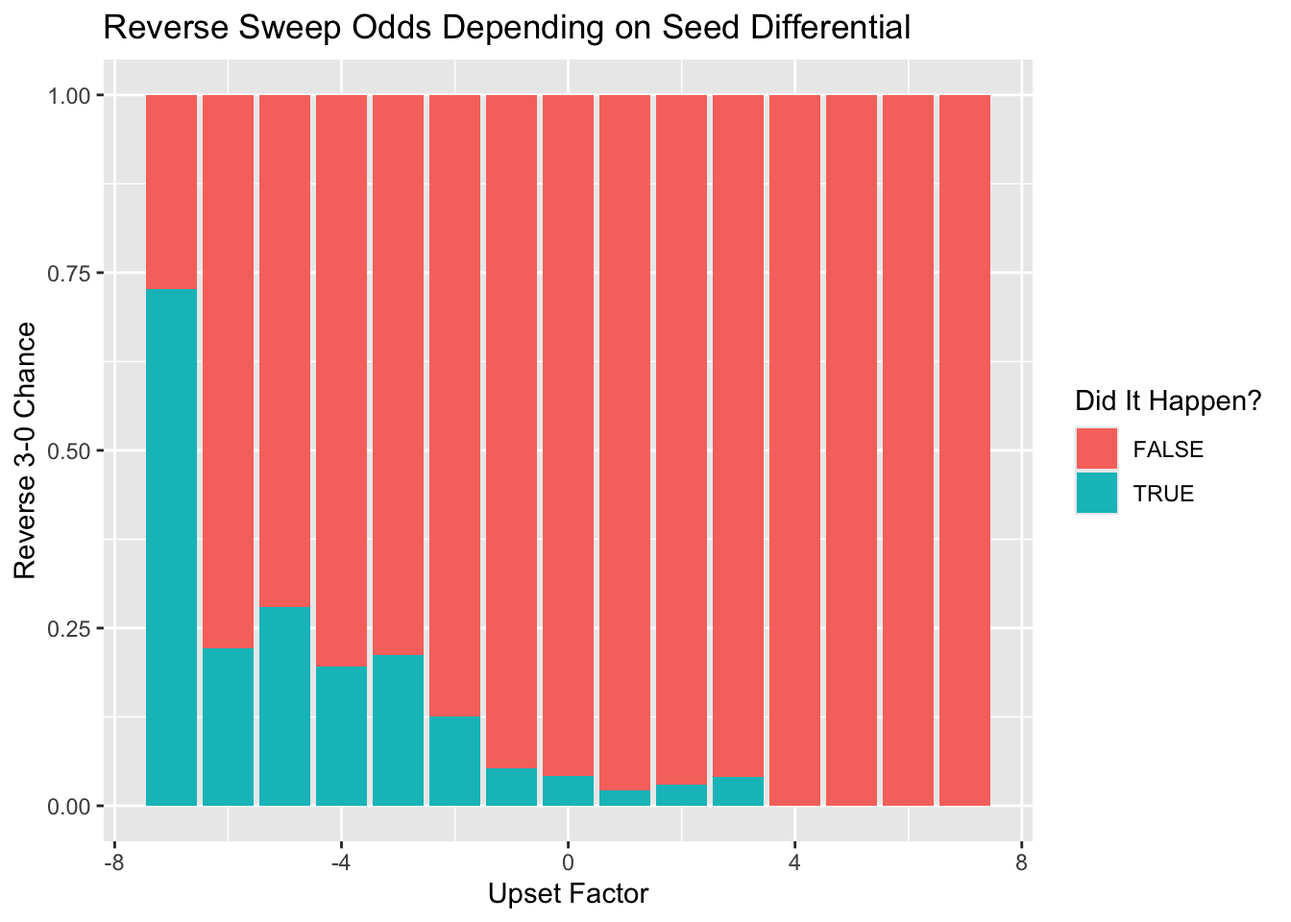
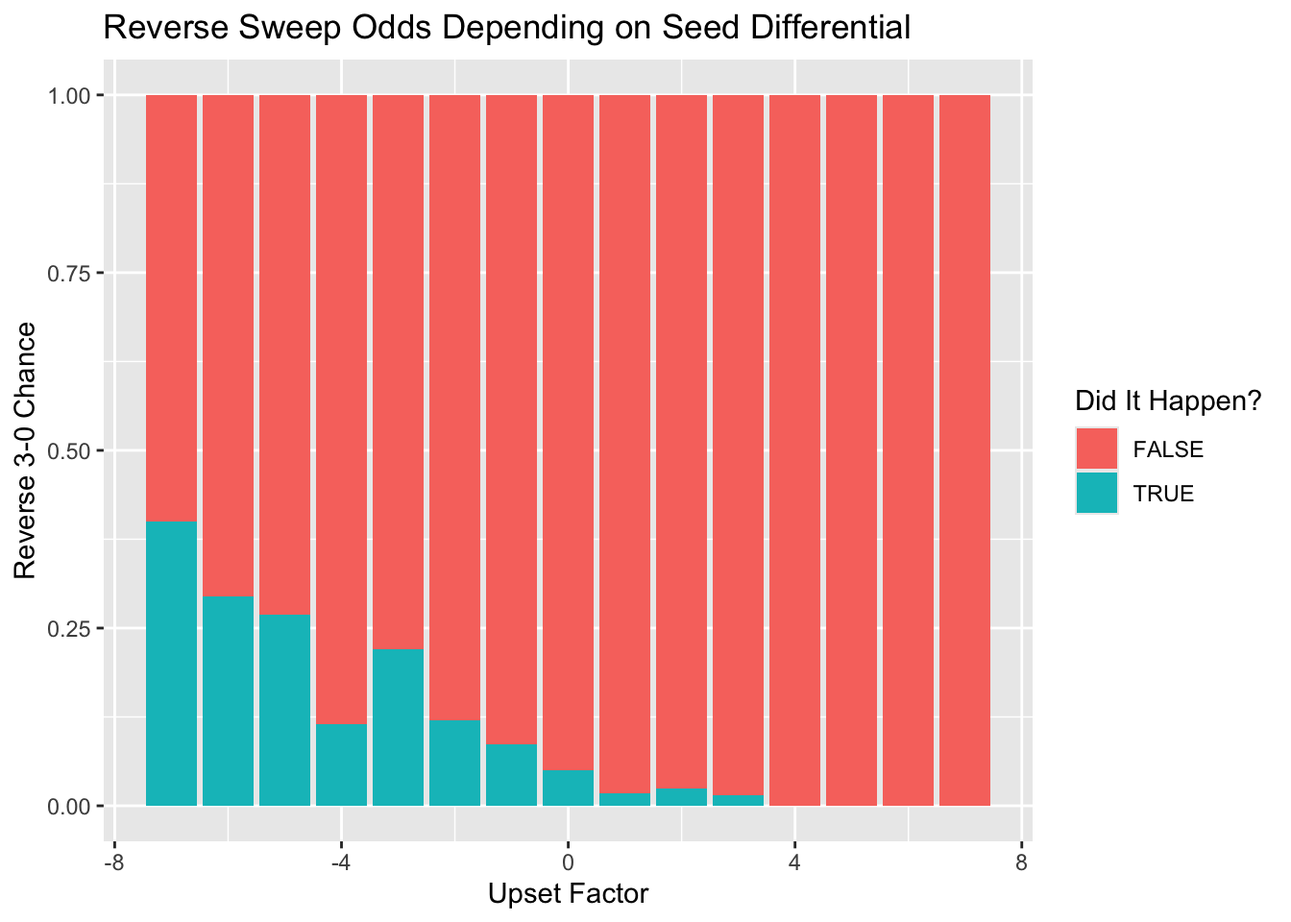
project 6 updates

diff --git a/docs/sql.html b/docs/sql.html
@@ -145,6 +145,10 @@ pre > code.sourceCode > span > a:first-child::before { text-decoration: underlin
  <span class="dropdown-text">Data Viz (National Park Species)</span></a>
   </li>  
         <li>
+    <a class="dropdown-item" href="./dataviz3.html">
+ <span class="dropdown-text">Data Viz (Species Interactive App)</span></a>
+  </li>  
+        <li>
     <a class="dropdown-item" href="./textanalysis.html">
  <span class="dropdown-text">Text Analysis (Palindromes)</span></a>
   </li>  
@@ -162,6 +166,10 @@ pre > code.sourceCode > span > a:first-child::before { text-decoration: underlin
   </li>  
     </ul>
   </li>
+  <li class="nav-item">
+    <a class="nav-link" href="./presentation.html"> 
+<span class="menu-text">Presentation</span></a>
+  </li>  
 </ul>
           </div> <!-- /navcollapse -->
             <div class="quarto-navbar-tools">
@@ -235,7 +243,7 @@ pre > code.sourceCode > span > a:first-child::before { text-decoration: underlin
 <h2 class="anchored" data-anchor-id="introduction">Introduction</h2>
 <p>It’s been observed that judges are less likely to grant lenient sentences or parole when they are hungry. (i.e.&nbsp;before their lunch break) (Danziger et al., 2011). This has become known as the “hungry judge effect”.</p>
 <p>We can use data from the Stanford Open Policing Project (Pierson et al., 2020) to observe the rate at which traffic stops result in citations, and whether there’s a meaningful difference in this rate before and after noon (which, presumably, is roughly when cops would eat lunch and be the hungriest). Washington, Texas, and New Jersey all give data for citations given and time of day.</p>
-<p>I cut off the data according to the normal 9-5 work day. While traffic stops obviously happen outside of those hours, it doesn’t make sense to evaluate the effect of a lunch break on something happening in the middle of the night.</p>
+<p>If we assume that a standard lunch hour is 12-1pm, we can consider the prior hour (11-12) “before lunch” and the next hour (1-2) “after lunch”. While traffic stops obviously happen outside of those hours, it doesn’t make sense to evaluate the effect of a lunch break on something happening in the middle of the night, or even at 9am or 5pm.</p>
 </section>
 <section id="data" class="level2">
 <h2 class="anchored" data-anchor-id="data">Data</h2>
@@ -263,52 +271,57 @@ pre > code.sourceCode > span > a:first-child::before { text-decoration: underlin
 <div class="cell" data-output.var="citations_and_warnings">
 <div class="sourceCode cell-code" id="cb3"><pre class="sourceCode sql code-with-copy"><code class="sourceCode sql"><span id="cb3-1"><a href="#cb3-1" aria-hidden="true" tabindex="-1"></a><span class="kw">SELECT</span> <span class="st">'WA'</span> <span class="kw">AS</span> state,</span>
 <span id="cb3-2"><a href="#cb3-2" aria-hidden="true" tabindex="-1"></a>       <span class="cf">CASE</span></span>
-<span id="cb3-3"><a href="#cb3-3" aria-hidden="true" tabindex="-1"></a>        <span class="cf">WHEN</span> <span class="dt">time</span> <span class="op">&lt;</span> <span class="st">'12:00:00'</span> <span class="cf">THEN</span> <span class="st">'morning'</span></span>
-<span id="cb3-4"><a href="#cb3-4" aria-hidden="true" tabindex="-1"></a>        <span class="cf">ELSE</span> <span class="st">'afternoon'</span></span>
+<span id="cb3-3"><a href="#cb3-3" aria-hidden="true" tabindex="-1"></a>        <span class="cf">WHEN</span> <span class="dt">time</span> <span class="op">&gt;=</span> <span class="st">'11:00:00'</span> <span class="kw">AND</span> <span class="dt">time</span> <span class="op">&lt;=</span> <span class="st">'12:00:00'</span> <span class="cf">THEN</span> <span class="st">'morning'</span></span>
+<span id="cb3-4"><a href="#cb3-4" aria-hidden="true" tabindex="-1"></a>        <span class="cf">WHEN</span> <span class="dt">time</span> <span class="op">&gt;=</span> <span class="st">'13:00:00'</span> <span class="kw">AND</span> <span class="dt">time</span> <span class="op">&lt;=</span> <span class="st">'14:00:00'</span> <span class="cf">THEN</span> <span class="st">'afternoon'</span></span>
 <span id="cb3-5"><a href="#cb3-5" aria-hidden="true" tabindex="-1"></a>       <span class="cf">END</span> <span class="kw">AS</span> day_segment,</span>
 <span id="cb3-6"><a href="#cb3-6" aria-hidden="true" tabindex="-1"></a>       <span class="fu">AVG</span>(citation_issued) <span class="kw">AS</span> citation_rate,</span>
-<span id="cb3-7"><a href="#cb3-7" aria-hidden="true" tabindex="-1"></a>       <span class="fu">AVG</span>(warning_issued) <span class="kw">AS</span> warning_rate</span>
-<span id="cb3-8"><a href="#cb3-8" aria-hidden="true" tabindex="-1"></a><span class="kw">FROM</span> wa_statewide_2020_04_01</span>
-<span id="cb3-9"><a href="#cb3-9" aria-hidden="true" tabindex="-1"></a><span class="kw">WHERE</span> <span class="dt">time</span> <span class="op">&gt;</span> <span class="st">'09:00:00'</span> <span class="kw">AND</span> <span class="dt">time</span> <span class="op">&lt;</span> <span class="st">'17:00:00'</span></span>
-<span id="cb3-10"><a href="#cb3-10" aria-hidden="true" tabindex="-1"></a><span class="kw">GROUP</span> <span class="kw">BY</span> day_segment</span>
-<span id="cb3-11"><a href="#cb3-11" aria-hidden="true" tabindex="-1"></a></span>
-<span id="cb3-12"><a href="#cb3-12" aria-hidden="true" tabindex="-1"></a><span class="kw">UNION</span> <span class="kw">ALL</span></span>
-<span id="cb3-13"><a href="#cb3-13" aria-hidden="true" tabindex="-1"></a></span>
-<span id="cb3-14"><a href="#cb3-14" aria-hidden="true" tabindex="-1"></a><span class="kw">SELECT</span> <span class="st">'TX'</span> <span class="kw">AS</span> state,</span>
-<span id="cb3-15"><a href="#cb3-15" aria-hidden="true" tabindex="-1"></a>       <span class="cf">CASE</span></span>
-<span id="cb3-16"><a href="#cb3-16" aria-hidden="true" tabindex="-1"></a>        <span class="cf">WHEN</span> <span class="dt">time</span> <span class="op">&lt;</span> <span class="st">'12:00:00'</span> <span class="cf">THEN</span> <span class="st">'morning'</span></span>
-<span id="cb3-17"><a href="#cb3-17" aria-hidden="true" tabindex="-1"></a>        <span class="cf">ELSE</span> <span class="st">'afternoon'</span></span>
-<span id="cb3-18"><a href="#cb3-18" aria-hidden="true" tabindex="-1"></a>       <span class="cf">END</span> <span class="kw">AS</span> day_segment,</span>
-<span id="cb3-19"><a href="#cb3-19" aria-hidden="true" tabindex="-1"></a>       <span class="fu">AVG</span>(citation_issued) <span class="kw">AS</span> citation_rate,</span>
-<span id="cb3-20"><a href="#cb3-20" aria-hidden="true" tabindex="-1"></a>       <span class="fu">AVG</span>(warning_issued) <span class="kw">AS</span> warning_rate</span>
-<span id="cb3-21"><a href="#cb3-21" aria-hidden="true" tabindex="-1"></a><span class="kw">FROM</span> tx_statewide_2020_04_01</span>
-<span id="cb3-22"><a href="#cb3-22" aria-hidden="true" tabindex="-1"></a><span class="kw">WHERE</span> <span class="dt">time</span> <span class="op">&gt;</span> <span class="st">'09:00:00'</span> <span class="kw">AND</span> <span class="dt">time</span> <span class="op">&lt;</span> <span class="st">'17:00:00'</span></span>
-<span id="cb3-23"><a href="#cb3-23" aria-hidden="true" tabindex="-1"></a><span class="kw">GROUP</span> <span class="kw">BY</span> day_segment</span>
-<span id="cb3-24"><a href="#cb3-24" aria-hidden="true" tabindex="-1"></a></span>
-<span id="cb3-25"><a href="#cb3-25" aria-hidden="true" tabindex="-1"></a><span class="kw">UNION</span> <span class="kw">ALL</span></span>
+<span id="cb3-7"><a href="#cb3-7" aria-hidden="true" tabindex="-1"></a>       <span class="fu">AVG</span>(warning_issued) <span class="kw">AS</span> warning_rate,</span>
+<span id="cb3-8"><a href="#cb3-8" aria-hidden="true" tabindex="-1"></a>       <span class="fu">COUNT</span>(<span class="op">*</span>) <span class="kw">AS</span> total_stops</span>
+<span id="cb3-9"><a href="#cb3-9" aria-hidden="true" tabindex="-1"></a><span class="kw">FROM</span> wa_statewide_2020_04_01</span>
+<span id="cb3-10"><a href="#cb3-10" aria-hidden="true" tabindex="-1"></a><span class="kw">WHERE</span> <span class="dt">time</span> <span class="op">&gt;=</span> <span class="st">'11:00:00'</span> <span class="kw">AND</span> <span class="dt">time</span> <span class="op">&lt;=</span> <span class="st">'12:00:00'</span> <span class="kw">OR</span> <span class="dt">time</span> <span class="op">&gt;=</span> <span class="st">'13:00:00'</span> <span class="kw">AND</span> <span class="dt">time</span> <span class="op">&lt;=</span> <span class="st">'14:00:00'</span></span>
+<span id="cb3-11"><a href="#cb3-11" aria-hidden="true" tabindex="-1"></a><span class="kw">GROUP</span> <span class="kw">BY</span> day_segment</span>
+<span id="cb3-12"><a href="#cb3-12" aria-hidden="true" tabindex="-1"></a></span>
+<span id="cb3-13"><a href="#cb3-13" aria-hidden="true" tabindex="-1"></a><span class="kw">UNION</span> <span class="kw">ALL</span></span>
+<span id="cb3-14"><a href="#cb3-14" aria-hidden="true" tabindex="-1"></a></span>
+<span id="cb3-15"><a href="#cb3-15" aria-hidden="true" tabindex="-1"></a><span class="kw">SELECT</span> <span class="st">'TX'</span> <span class="kw">AS</span> state,</span>
+<span id="cb3-16"><a href="#cb3-16" aria-hidden="true" tabindex="-1"></a>       <span class="cf">CASE</span></span>
+<span id="cb3-17"><a href="#cb3-17" aria-hidden="true" tabindex="-1"></a>        <span class="cf">WHEN</span> <span class="dt">time</span> <span class="op">&gt;=</span> <span class="st">'11:00:00'</span> <span class="kw">AND</span> <span class="dt">time</span> <span class="op">&lt;=</span> <span class="st">'12:00:00'</span> <span class="cf">THEN</span> <span class="st">'morning'</span></span>
+<span id="cb3-18"><a href="#cb3-18" aria-hidden="true" tabindex="-1"></a>        <span class="cf">WHEN</span> <span class="dt">time</span> <span class="op">&gt;=</span> <span class="st">'13:00:00'</span> <span class="kw">AND</span> <span class="dt">time</span> <span class="op">&lt;=</span> <span class="st">'14:00:00'</span> <span class="cf">THEN</span> <span class="st">'afternoon'</span></span>
+<span id="cb3-19"><a href="#cb3-19" aria-hidden="true" tabindex="-1"></a>       <span class="cf">END</span> <span class="kw">AS</span> day_segment,</span>
+<span id="cb3-20"><a href="#cb3-20" aria-hidden="true" tabindex="-1"></a>       <span class="fu">AVG</span>(citation_issued) <span class="kw">AS</span> citation_rate,</span>
+<span id="cb3-21"><a href="#cb3-21" aria-hidden="true" tabindex="-1"></a>       <span class="fu">AVG</span>(warning_issued) <span class="kw">AS</span> warning_rate,</span>
+<span id="cb3-22"><a href="#cb3-22" aria-hidden="true" tabindex="-1"></a>       <span class="fu">COUNT</span>(<span class="op">*</span>) <span class="kw">AS</span> total_stops</span>
+<span id="cb3-23"><a href="#cb3-23" aria-hidden="true" tabindex="-1"></a><span class="kw">FROM</span> tx_statewide_2020_04_01</span>
+<span id="cb3-24"><a href="#cb3-24" aria-hidden="true" tabindex="-1"></a><span class="kw">WHERE</span> <span class="dt">time</span> <span class="op">&gt;=</span> <span class="st">'11:00:00'</span> <span class="kw">AND</span> <span class="dt">time</span> <span class="op">&lt;=</span> <span class="st">'12:00:00'</span> <span class="kw">OR</span> <span class="dt">time</span> <span class="op">&gt;=</span> <span class="st">'13:00:00'</span> <span class="kw">AND</span> <span class="dt">time</span> <span class="op">&lt;=</span> <span class="st">'14:00:00'</span></span>
+<span id="cb3-25"><a href="#cb3-25" aria-hidden="true" tabindex="-1"></a><span class="kw">GROUP</span> <span class="kw">BY</span> day_segment</span>
 <span id="cb3-26"><a href="#cb3-26" aria-hidden="true" tabindex="-1"></a></span>
-<span id="cb3-27"><a href="#cb3-27" aria-hidden="true" tabindex="-1"></a><span class="kw">SELECT</span> <span class="st">'NJ'</span> <span class="kw">AS</span> state,</span>
-<span id="cb3-28"><a href="#cb3-28" aria-hidden="true" tabindex="-1"></a>       <span class="cf">CASE</span></span>
-<span id="cb3-29"><a href="#cb3-29" aria-hidden="true" tabindex="-1"></a>        <span class="cf">WHEN</span> <span class="dt">time</span> <span class="op">&lt;</span> <span class="st">'12:00:00'</span> <span class="cf">THEN</span> <span class="st">'morning'</span></span>
-<span id="cb3-30"><a href="#cb3-30" aria-hidden="true" tabindex="-1"></a>        <span class="cf">ELSE</span> <span class="st">'afternoon'</span></span>
-<span id="cb3-31"><a href="#cb3-31" aria-hidden="true" tabindex="-1"></a>       <span class="cf">END</span> <span class="kw">AS</span> day_segment,</span>
-<span id="cb3-32"><a href="#cb3-32" aria-hidden="true" tabindex="-1"></a>       <span class="fu">AVG</span>(citation_issued) <span class="kw">AS</span> citation_rate,</span>
-<span id="cb3-33"><a href="#cb3-33" aria-hidden="true" tabindex="-1"></a>       <span class="fu">AVG</span>(warning_issued) <span class="kw">AS</span> warning_rate</span>
-<span id="cb3-34"><a href="#cb3-34" aria-hidden="true" tabindex="-1"></a><span class="kw">FROM</span> nj_statewide_2020_04_01</span>
-<span id="cb3-35"><a href="#cb3-35" aria-hidden="true" tabindex="-1"></a><span class="kw">WHERE</span> <span class="dt">time</span> <span class="op">&gt;</span> <span class="st">'09:00:00'</span> <span class="kw">AND</span> <span class="dt">time</span> <span class="op">&lt;</span> <span class="st">'17:00:00'</span></span>
-<span id="cb3-36"><a href="#cb3-36" aria-hidden="true" tabindex="-1"></a><span class="kw">GROUP</span> <span class="kw">BY</span> day_segment;</span></code><button title="Copy to Clipboard" class="code-copy-button"><i class="bi"></i></button></pre></div>
+<span id="cb3-27"><a href="#cb3-27" aria-hidden="true" tabindex="-1"></a><span class="kw">UNION</span> <span class="kw">ALL</span></span>
+<span id="cb3-28"><a href="#cb3-28" aria-hidden="true" tabindex="-1"></a></span>
+<span id="cb3-29"><a href="#cb3-29" aria-hidden="true" tabindex="-1"></a><span class="kw">SELECT</span> <span class="st">'NJ'</span> <span class="kw">AS</span> state,</span>
+<span id="cb3-30"><a href="#cb3-30" aria-hidden="true" tabindex="-1"></a>       <span class="cf">CASE</span></span>
+<span id="cb3-31"><a href="#cb3-31" aria-hidden="true" tabindex="-1"></a>        <span class="cf">WHEN</span> <span class="dt">time</span> <span class="op">&gt;=</span> <span class="st">'11:00:00'</span> <span class="kw">AND</span> <span class="dt">time</span> <span class="op">&lt;=</span> <span class="st">'12:00:00'</span> <span class="cf">THEN</span> <span class="st">'morning'</span></span>
+<span id="cb3-32"><a href="#cb3-32" aria-hidden="true" tabindex="-1"></a>        <span class="cf">WHEN</span> <span class="dt">time</span> <span class="op">&gt;=</span> <span class="st">'13:00:00'</span> <span class="kw">AND</span> <span class="dt">time</span> <span class="op">&lt;=</span> <span class="st">'14:00:00'</span> <span class="cf">THEN</span> <span class="st">'afternoon'</span></span>
+<span id="cb3-33"><a href="#cb3-33" aria-hidden="true" tabindex="-1"></a>       <span class="cf">END</span> <span class="kw">AS</span> day_segment,</span>
+<span id="cb3-34"><a href="#cb3-34" aria-hidden="true" tabindex="-1"></a>       <span class="fu">AVG</span>(citation_issued) <span class="kw">AS</span> citation_rate,</span>
+<span id="cb3-35"><a href="#cb3-35" aria-hidden="true" tabindex="-1"></a>       <span class="fu">AVG</span>(warning_issued) <span class="kw">AS</span> warning_rate,</span>
+<span id="cb3-36"><a href="#cb3-36" aria-hidden="true" tabindex="-1"></a>       <span class="fu">COUNT</span>(<span class="op">*</span>) <span class="kw">AS</span> total_stops</span>
+<span id="cb3-37"><a href="#cb3-37" aria-hidden="true" tabindex="-1"></a><span class="kw">FROM</span> nj_statewide_2020_04_01</span>
+<span id="cb3-38"><a href="#cb3-38" aria-hidden="true" tabindex="-1"></a><span class="kw">WHERE</span> <span class="dt">time</span> <span class="op">&gt;=</span> <span class="st">'11:00:00'</span> <span class="kw">AND</span> <span class="dt">time</span> <span class="op">&lt;=</span> <span class="st">'12:00:00'</span> <span class="kw">OR</span> <span class="dt">time</span> <span class="op">&gt;=</span> <span class="st">'13:00:00'</span> <span class="kw">AND</span> <span class="dt">time</span> <span class="op">&lt;=</span> <span class="st">'14:00:00'</span></span>
+<span id="cb3-39"><a href="#cb3-39" aria-hidden="true" tabindex="-1"></a><span class="kw">GROUP</span> <span class="kw">BY</span> day_segment;</span></code><button title="Copy to Clipboard" class="code-copy-button"><i class="bi"></i></button></pre></div>
 </div>
 <p>This takes the overall data for a state, filters out times outside of the normal workday, adds a column that specifies what part of the day a stop occurred at based on the time, and splits the table into two parts for each part of the day. It averages the column “citation_issued”, which is 1s for yes and 0s for no, to get the rate at which citations were issued at each part of the day. It combines this output for three different states into one table.</p>
 <div class="cell">
-<div class="sourceCode cell-code" id="cb4"><pre class="sourceCode r code-with-copy"><code class="sourceCode r"><span id="cb4-1"><a href="#cb4-1" aria-hidden="true" tabindex="-1"></a>citations_and_warnings</span></code><button title="Copy to Clipboard" class="code-copy-button"><i class="bi"></i></button></pre></div>
+<div class="sourceCode cell-code" id="cb4"><pre class="sourceCode r code-with-copy"><code class="sourceCode r"><span id="cb4-1"><a href="#cb4-1" aria-hidden="true" tabindex="-1"></a><span class="fu">dbDisconnect</span>(con_traffic)</span>
+<span id="cb4-2"><a href="#cb4-2" aria-hidden="true" tabindex="-1"></a></span>
+<span id="cb4-3"><a href="#cb4-3" aria-hidden="true" tabindex="-1"></a>citations_and_warnings</span></code><button title="Copy to Clipboard" class="code-copy-button"><i class="bi"></i></button></pre></div>
 <div class="cell-output cell-output-stdout">
-<pre><code>  state day_segment citation_rate warning_rate
-1    WA   afternoon     0.3797482    0.4209331
-2    WA     morning     0.4442537    0.4271534
-3    TX   afternoon     0.3883023    0.7490462
-4    TX     morning     0.3767222    0.7539040
-5    NJ   afternoon     0.6136698    0.4608858
-6    NJ     morning     0.6276607    0.4499691</code></pre>
+<pre><code>  state day_segment citation_rate warning_rate total_stops
+1    WA   afternoon     0.3985667    0.4264634     1314603
+2    WA     morning     0.4216448    0.4285162     1236714
+3    TX   afternoon     0.3789574    0.7554030     1643900
+4    TX     morning     0.3843643    0.7475949     1210867
+5    NJ   afternoon     0.6209951    0.4527666      185520
+6    NJ     morning     0.6256819    0.4511785      216405</code></pre>
 </div>
 </div>
 <p>The final data from the SQL query shows one row for each pairing of state and part of the day, and the proportion of traffic stops resulting in a citation or a warning in each.</p>
@@ -358,9 +371,9 @@ pre > code.sourceCode > span > a:first-child::before { text-decoration: underlin
 </section>
 <section id="interpretation" class="level2">
 <h2 class="anchored" data-anchor-id="interpretation">Interpretation</h2>
-<p>The answer seems to be a solid no. While 44% of morning traffic stops in Washington state result in citations, compared to 38% of afternoon ones, this pattern doesn’t exist in the other two states. The rate at which warnings are given is identical.</p>
-<p>Notably, without the time constraint, the morning citation rates are considerably higher than the afternoon ones for all three states. I assume this is because “morning” encompasses late-night traffic stops, which evidently result in much more citations. This proves that removing those parts of the data makes sense, because, as stated earlier, a DUI citation at 3 am probably doesn’t have any degree of dependence on whether the officer has had lunch yet.</p>
-<p>Overall, the null hypothesis seems to be supported in this case. Big states like California and New Jersey do not supply time of citation information, so it may be helpful to collect more data to confirm these findings.</p>
+<p>The answer seems to be “maybe”. While 42% of morning traffic stops in Washington state result in citations, compared to 40% of afternoon ones, this pattern is much weaker in the other two states, with a difference of about half a percentage point in each. The rate at which warnings are given is essentially identical. With a sample size of over a million for Washington and Texas, it is possible that such a small difference is still statistically significant.</p>
+<p>Notably, without the time constraint (just observing differences between before and after 12pm), the morning citation rates are considerably higher than the afternoon ones for all three states. I assume this is because “morning” encompasses late-night traffic stops, which evidently result in much more citations.</p>
+<p>Overall, I don’t think these findings are conclusive. Big states like California and New Jersey do not supply time of citation information, so it may be helpful to collect more data to confirm these findings. I don’t want to rule out the possibility that such an effect exists but if it is it’s much less blatant than it is when observed in judges.</p>
 </section>
 <section id="references" class="level2">
 <h2 class="anchored" data-anchor-id="references">References</h2>

diff --git a/docs/simulation.html b/docs/simulation.html
@@ -8,9 +8,9 @@
 
 <meta name="author" content="Nikhil Shah">
 <meta name="dcterms.date" content="2025-04-02">
-<meta name="description" content="Simulating best-of-5 tournament matches to estimate the odds of a reverse 3-0">
+<meta name="description" content="Simulating best-of-5 tournament matches to estimate the chances of a reverse 3-0">
 
-<title>Reverse 3-0 Odds – Nikhil Shah</title>
+<title>Reverse 3-0s – Nikhil Shah</title>
 <style>
 code{white-space: pre-wrap;}
 span.smallcaps{font-variant: small-caps;}
@@ -154,7 +154,7 @@ pre > code.sourceCode > span > a:first-child::before { text-decoration: underlin
   </li>  
         <li>
     <a class="dropdown-item" href="./simulation.html">
- <span class="dropdown-text">Simulation (Reverse 3-0 Odds)</span></a>
+ <span class="dropdown-text">Simulation (Reverse 3-0s)</span></a>
   </li>  
         <li>
     <a class="dropdown-item" href="./ethics.html">
@@ -190,12 +190,12 @@ pre > code.sourceCode > span > a:first-child::before { text-decoration: underlin
 
 <header id="title-block-header" class="quarto-title-block default">
 <div class="quarto-title">
-<h1 class="title">Reverse 3-0 Odds</h1>
+<h1 class="title">Reverse 3-0s</h1>
 </div>
 
 <div>
   <div class="description">
-    <p>Simulating best-of-5 tournament matches to estimate the odds of a reverse 3-0</p>
+    <p>Simulating best-of-5 tournament matches to estimate the chances of a reverse 3-0</p>
   </div>
 </div>
 
@@ -224,12 +224,12 @@ pre > code.sourceCode > span > a:first-child::before { text-decoration: underlin
 </header>
 
 
-<p>In a best-of-5 set, a reverse 3-0 occurs when one side loses the first two games, and then wins the next three to win a set. It’s an uncommon and extremely exciting (or heartbreaking) phenomenon, and it can seem to often much more likely or much less often than you would expect. I want to estimate how frequently this happens when a set starts 2-0, depending on the relative strength of both sides.</p>
-<p>This needs some assumptions. Firstly, the odds of one player or team to win a game heavily depends on relative skill, the volatility of the game, and maybe luck. Without looking at data from a specific game, we can create odds that seem to make sense.</p>
+<p>In a best-of-5 set, a reverse 3-0 occurs when one side loses the first two games, and then wins the next three to win a set. It’s an uncommon and extremely exciting (or heartbreaking) phenomenon, and it can be pretty difficult to predict when it might occur. I want to estimate how frequently this happens when a set starts 2-0, depending on the relative strength of both sides.</p>
+<p>This needs some assumptions. Firstly, the chance of one player or team to win a game heavily depends on relative skill, the volatility of the game, and maybe luck. Without looking at data from a specific game, we can create chances that seem to make sense.</p>
 <p>We also have to look at players/teams of a somewhat comparable skill. If you were watching a best-of-5 tournament match, and you saw one side go down 0-2, you would only wonder if they could win the match if they were capable of making it competitive. In a 1024-entrant bracket, odds are, the 1st seed will beat the 1024th seed, and the 512th seed, and the 256th seed handily in a 3-0. While those could technically be a reverse 3-0 after the first two games, it’s very unlikely and nobody would expect it to happen. We want to look at matches where some competitiveness is expected.</p>
 <p>We can use a 16-player tournament, and assume that, in a vacuum, the odds of one side winning a game are the the ratio of the two teams’ seeds. For instance, seed 1 has a 1:2 chance of beating seed 2 (67%), seed 16 has a 16:1 chance of beating seed 1 (6%), and seed 15 has 15:16 odds of beating seed 16 (48%). Each of these matches would be competitive, with a significant degree of variability, which makes it interesting.</p>
 <p>Let’s create a hypothetical match between a random pairing of two seeds from 1-16. We can take one side’s odds of winning a game to the power of three and determine the chance of them winning three games in a row. However, since we want to know the chance of a reverse sweep rather than just a sweep, we need to account for the fact that the player or team that goes up 2-0 might have some additional advantage specifically related to that opponent: experience in the matchup, knowledge of habits or strategies, a favorable difference in skill sets, etc. Therefore, the other side’s chance of winning a game is most likely lower than initially assumed.</p>
-<p>How can we account for this? If you flip a coin twice, 25% of the time, it’ll land on tails twice by pure random chance. In that spirit, let’s say there was a 25% chance that the 2-0 start was purely based on random variability, and reduce the losing side’s new odds of winning a game by 25%. Based on my general experience with spectating tournaments, this is a somewhat accurate measure.</p>
+<p>How can we account for this? If you flip a coin twice, 25% of the time, it’ll land on tails twice by pure random chance. In that spirit, let’s say that when a set starts 2-0, 75% of the time it’s because of a difference in skill or preparation, and 25% of the time it happened just because of variability with no real pattern beneath it. We can take the losing side’s initial estimated chance of winning, and reduce it by 25% to account for this factor. Based on my general experience with spectating tournaments, this is a somewhat accurate measure.</p>
 <div class="cell">
 <div class="sourceCode cell-code" id="cb1"><pre class="sourceCode r code-with-copy"><code class="sourceCode r"><span id="cb1-1"><a href="#cb1-1" aria-hidden="true" tabindex="-1"></a><span class="fu">library</span>(tidyverse)</span>
 <span id="cb1-2"><a href="#cb1-2" aria-hidden="true" tabindex="-1"></a><span class="fu">library</span>(purrr)</span></code><button title="Copy to Clipboard" class="code-copy-button"><i class="bi"></i></button></pre></div>
@@ -278,7 +278,7 @@ pre > code.sourceCode > span > a:first-child::before { text-decoration: underlin
 <span id="cb2-41"><a href="#cb2-41" aria-hidden="true" tabindex="-1"></a>  <span class="fu">summarize</span>(<span class="at">chance =</span> <span class="fu">mean</span>(reverse_sweep))</span></code><button title="Copy to Clipboard" class="code-copy-button"><i class="bi"></i></button></pre></div>
 <div class="cell-output cell-output-stdout">
 <pre><code>  chance
-1   0.08</code></pre>
+1  0.077</code></pre>
 </div>
 <div class="sourceCode cell-code" id="cb4"><pre class="sourceCode r code-with-copy"><code class="sourceCode r"><span id="cb4-1"><a href="#cb4-1" aria-hidden="true" tabindex="-1"></a><span class="co"># Plots the data</span></span>
 <span id="cb4-2"><a href="#cb4-2" aria-hidden="true" tabindex="-1"></a>data <span class="sc">|&gt;</span></span>

diff --git a/docs/ethics.html b/docs/ethics.html
@@ -111,12 +111,16 @@ ul.task-list li input[type="checkbox"] {
  <span class="dropdown-text">Data Viz (National Park Species)</span></a>
   </li>  
         <li>
+    <a class="dropdown-item" href="./dataviz3.html">
+ <span class="dropdown-text">Data Viz (Species Interactive App)</span></a>
+  </li>  
+        <li>
     <a class="dropdown-item" href="./textanalysis.html">
  <span class="dropdown-text">Text Analysis (Palindromes)</span></a>
   </li>  
         <li>
     <a class="dropdown-item" href="./simulation.html">
- <span class="dropdown-text">Simulation (Reverse 3-0 Odds)</span></a>
+ <span class="dropdown-text">Simulation (Reverse 3-0s)</span></a>
   </li>  
         <li>
     <a class="dropdown-item" href="./ethics.html">
@@ -151,7 +155,7 @@ ul.task-list li input[type="checkbox"] {
   <ul>
   <li><a href="#introduction" id="toc-introduction" class="nav-link active" data-scroll-target="#introduction">Introduction</a></li>
   <li><a href="#analysis" id="toc-analysis" class="nav-link" data-scroll-target="#analysis">Analysis</a></li>
-  <li><a href="#sources" id="toc-sources" class="nav-link" data-scroll-target="#sources">Sources</a></li>
+  <li><a href="#references" id="toc-references" class="nav-link" data-scroll-target="#references">References</a></li>
   </ul>
 </nav>
     </div>
@@ -194,19 +198,19 @@ ul.task-list li input[type="checkbox"] {
 </header>
 
 
-<section id="introduction" class="level3">
-<h3 class="anchored" data-anchor-id="introduction">Introduction</h3>
+<section id="introduction" class="level2">
+<h2 class="anchored" data-anchor-id="introduction">Introduction</h2>
 <p>In the mid-2010s, Amazon developed an AI-based tool trained to evaluate resumes to output the best possible candidates without the need for human review. This project failed, because it turned out the training data and the output was biased against women.</p>
 </section>
-<section id="analysis" class="level3">
-<h3 class="anchored" data-anchor-id="analysis">Analysis</h3>
+<section id="analysis" class="level2">
+<h2 class="anchored" data-anchor-id="analysis">Analysis</h2>
 <p>This failure stems from the lack of adherence to one of the principles of data science, which suggests to “build teams with diverse ideas, backgrounds, and strengths.” According to the ACLU, Amazon’s workforce was predominantly male, which led to the subset of “successful resumes” being predominantly male, so the algorithm learned that characteristics that could have been associated with women were not favorable (Goodman, 2018). Notably, the Reuters report claims that the bias was primarily due to disproportionate gender ratios in the applications themselves, rather than the existing workforce (Dastin, 2018), but it’s fair to assume that a skewed workforce would perpetuate that ratio and so the premise is essentially the same - a lack of diversity in Amazon led to a discriminatory hiring algorithm.</p>
 <p>Another principle for which the project falls short is that it does not use data to improve lives. In fact, pioneering a discriminatory technology that would go on to be implemented on massive scales ten years later, governing a major factor in peoples’ quality of life (their employment), most likely played a significant role in making lives worse, even if the algorithm itself was scrapped. In the 1970s, IBM stated that “a computer can never be held accountable, therefore a computer must never make a management decision.” While collecting data for the sake of knowledege is okay, a machine-learning algorithm should not be given the power to have a tangible negative effect on human lives. Going through with this project without taking great care to prevent bias in the algorithm’s training data and thus its output may have contributed to this ideal being violated.</p>
 <p>I think it’s generally okay for gender to be used as a variable for data analysis purposes specifically. When collecting data on people, and that data is actionable, such as data collected on social media platforms for targeted advertising, or data collected by companies for hiring, collecting data on social categories like gender can very easily be intrusive and unethical, with the potential to be misused. However, in studies, especially when there’s a potential connection between those social categories and another variable, it can be very important to collect that data. If gender data had not been collected in this case, there would be no way of knowing about the discrimination that was occurring. Overall, the distinction probably lies in whether gender as a variable is pertinent to the project, and whether that data can be used to cause harm to the participants.</p>
 <p>Data collection and processing in this case was most likely not conducted ethically. While the training data could have been gathered consensually (since it was from employees of the company), the project was conducted behind closed doors; actual applicants weren’t aware that their applications were being evaluated by a machine-learning algorithm. They had no way of knowing that their information was being used in a computer program which could discriminate against them for factors out of their control. On a few applications for jobs and internships, I’ve been asked whether or not I’d like to opt out of an AI evaluation of my application. While I did opt out, I imagine some or most other companies aren’t giving me the option because that was their default option. This worries me - how do I know my resume isn’t being used to train ChatGPT to hire people based on some immutable characteristic? Not only would this project have been unethical, it could have set a standard that green-lighted the same unethical behavior for broad use in the future.</p>
 </section>
-<section id="sources" class="level3">
-<h3 class="anchored" data-anchor-id="sources">Sources</h3>
+<section id="references" class="level2">
+<h2 class="anchored" data-anchor-id="references">References</h2>
 <ul>
 <li><a href="https://www.reuters.com/article/us-amazon-com-jobs-automation-insight-idUSKCN1MK08G/">Dastin, Jeffrey (2018). “Amazon scraps secret AI recruiting tool that showed bias against women.” Reuters.</a></li>
 <li><a href="https://www.aclu.org/news/womens-rights/why-amazons-automated-hiring-tool-discriminated-against">Goodman, Rachel (2018). “Why Amazon’s Automated Hiring Tool Discriminated Against Women.” ACLU.</a></li>

diff --git a/docs/textanalysis.html b/docs/textanalysis.html
@@ -189,7 +189,7 @@ pre > code.sourceCode > span > a:first-child::before { text-decoration: underlin
   <ul>
   <li><a href="#data" id="toc-data" class="nav-link active" data-scroll-target="#data">Data</a></li>
   <li><a href="#palindromes" id="toc-palindromes" class="nav-link" data-scroll-target="#palindromes">Palindromes</a></li>
-  <li><a href="#anti-palindromes-or-reduplications" id="toc-anti-palindromes-or-reduplications" class="nav-link" data-scroll-target="#anti-palindromes-or-reduplications">Anti-Palindromes, or Reduplications</a></li>
+  <li><a href="#anti-palindromes-reduplications" id="toc-anti-palindromes-reduplications" class="nav-link" data-scroll-target="#anti-palindromes-reduplications">Anti-Palindromes (Reduplications)</a></li>
   </ul>
 </nav>
     </div>
@@ -232,8 +232,8 @@ pre > code.sourceCode > span > a:first-child::before { text-decoration: underlin
 </header>
 
 
-<section id="data" class="level1">
-<h1>Data</h1>
+<section id="data" class="level2">
+<h2 class="anchored" data-anchor-id="data">Data</h2>
 <p>The dataset is English Words by <a href="https://github.com/dwyl/english-words/blob/master/words.txt">dwyl (Github)</a>. It contains almost all of the words in the English dictionary.</p>
 <div class="cell">
 <div class="sourceCode cell-code" id="cb1"><pre class="sourceCode r code-with-copy"><code class="sourceCode r"><span id="cb1-1"><a href="#cb1-1" aria-hidden="true" tabindex="-1"></a><span class="fu">library</span>(tidyverse)</span>
@@ -298,22 +298,22 @@ pre > code.sourceCode > span > a:first-child::before { text-decoration: underlin
 <span id="cb2-6"><a href="#cb2-6" aria-hidden="true" tabindex="-1"></a>  </span>
 <span id="cb2-7"><a href="#cb2-7" aria-hidden="true" tabindex="-1"></a><span class="fu">sample_n</span>(words_filtered, <span class="dv">10</span>)</span></code><button title="Copy to Clipboard" class="code-copy-button"><i class="bi"></i></button></pre></div>
 <div class="cell-output cell-output-stdout">
-<pre><code>                 word length start
-1    unanswerableness     16     u
-2           cataracts      9     c
-3  psychoneurological     18     p
-4          walkmiller     10     w
-5              baltei      6     b
-6          diploidize     10     d
-7            plantain      8     p
-8           moundwork      9     m
-9               steak      5     s
-10        swordplayer     11     s</code></pre>
+<pre><code>           word length start
+1  preballoting     12     p
+2         boffo      5     b
+3         criss      5     c
+4  unsecretness     12     u
+5     soldiered      9     s
+6       fucosan      7     f
+7   roosterfish     11     r
+8       samsara      7     s
+9   refractions     11     r
+10    brutalize      9     b</code></pre>
 </div>
 </div>
 </section>
-<section id="palindromes" class="level1">
-<h1>Palindromes</h1>
+<section id="palindromes" class="level2">
+<h2 class="anchored" data-anchor-id="palindromes">Palindromes</h2>
 <p>A palindrome is any word (or set of words) that is the same when the letters are reversed.</p>
 <div class="cell">
 <div class="sourceCode cell-code" id="cb4"><pre class="sourceCode r code-with-copy"><code class="sourceCode r"><span id="cb4-1"><a href="#cb4-1" aria-hidden="true" tabindex="-1"></a>palindromes <span class="ot">&lt;-</span> words_filtered <span class="sc">|&gt;</span></span>
@@ -322,17 +322,17 @@ pre > code.sourceCode > span > a:first-child::before { text-decoration: underlin
 <span id="cb4-4"><a href="#cb4-4" aria-hidden="true" tabindex="-1"></a></span>
 <span id="cb4-5"><a href="#cb4-5" aria-hidden="true" tabindex="-1"></a><span class="fu">sample_n</span>(palindromes, <span class="dv">10</span>)</span></code><button title="Copy to Clipboard" class="code-copy-button"><i class="bi"></i></button></pre></div>
 <div class="cell-output cell-output-stdout">
-<pre><code>      word length start
-1    kayak      5     k
-2      waw      3     w
-3  repaper      7     r
-4    solos      5     s
-5  deedeed      7     d
-6   pullup      6     p
-7    addda      5     a
-8   tibbit      6     t
-9      iii      3     i
-10 reifier      7     r</code></pre>
+<pre><code>     word length start
+1     usu      3     u
+2   sexes      5     s
+3    maam      4     m
+4     ana      3     a
+5   addda      5     a
+6       o      1     o
+7   civic      5     c
+8  tibbit      6     t
+9  degged      6     d
+10    mem      3     m</code></pre>
 </div>
 </div>
 <p>A lot of palindromes are formed because of common suffixes. ‘Deified’, ‘reviver’, and ‘stats’ might be palindromes, but only because of a modifier that changes the root word. This shows how many words follow those structures.</p>
@@ -371,8 +371,8 @@ pre > code.sourceCode > span > a:first-child::before { text-decoration: underlin
 </div>
 <p>I tend to think of a syllable as a pair of a consonant sound and a vowel sound, and there’s a slight amount more of even-length words than odd in English, so I’m a bit surprised to see such a preference for odd-length ones out of the palindromes.</p>
 </section>
-<section id="anti-palindromes-or-reduplications" class="level1">
-<h1>Anti-Palindromes, or Reduplications</h1>
+<section id="anti-palindromes-reduplications" class="level2">
+<h2 class="anchored" data-anchor-id="anti-palindromes-reduplications">Anti-Palindromes (Reduplications)</h2>
 <p>While trying to work out a way to find palindromes with stringr functions (apparently R does not have reverse indexing like Python does so this is either not possible or very convoluted) I accidentally came up with a list of “anti-palindromes”, where the back half of the word is also the front half of the word. If “toot” is a palindrome, “toto” is an anti-palindrome.</p>
 <div class="cell">
 <div class="sourceCode cell-code" id="cb8"><pre class="sourceCode r code-with-copy"><code class="sourceCode r"><span id="cb8-1"><a href="#cb8-1" aria-hidden="true" tabindex="-1"></a>reduplications <span class="ot">&lt;-</span> words_filtered <span class="sc">|&gt;</span> </span>
